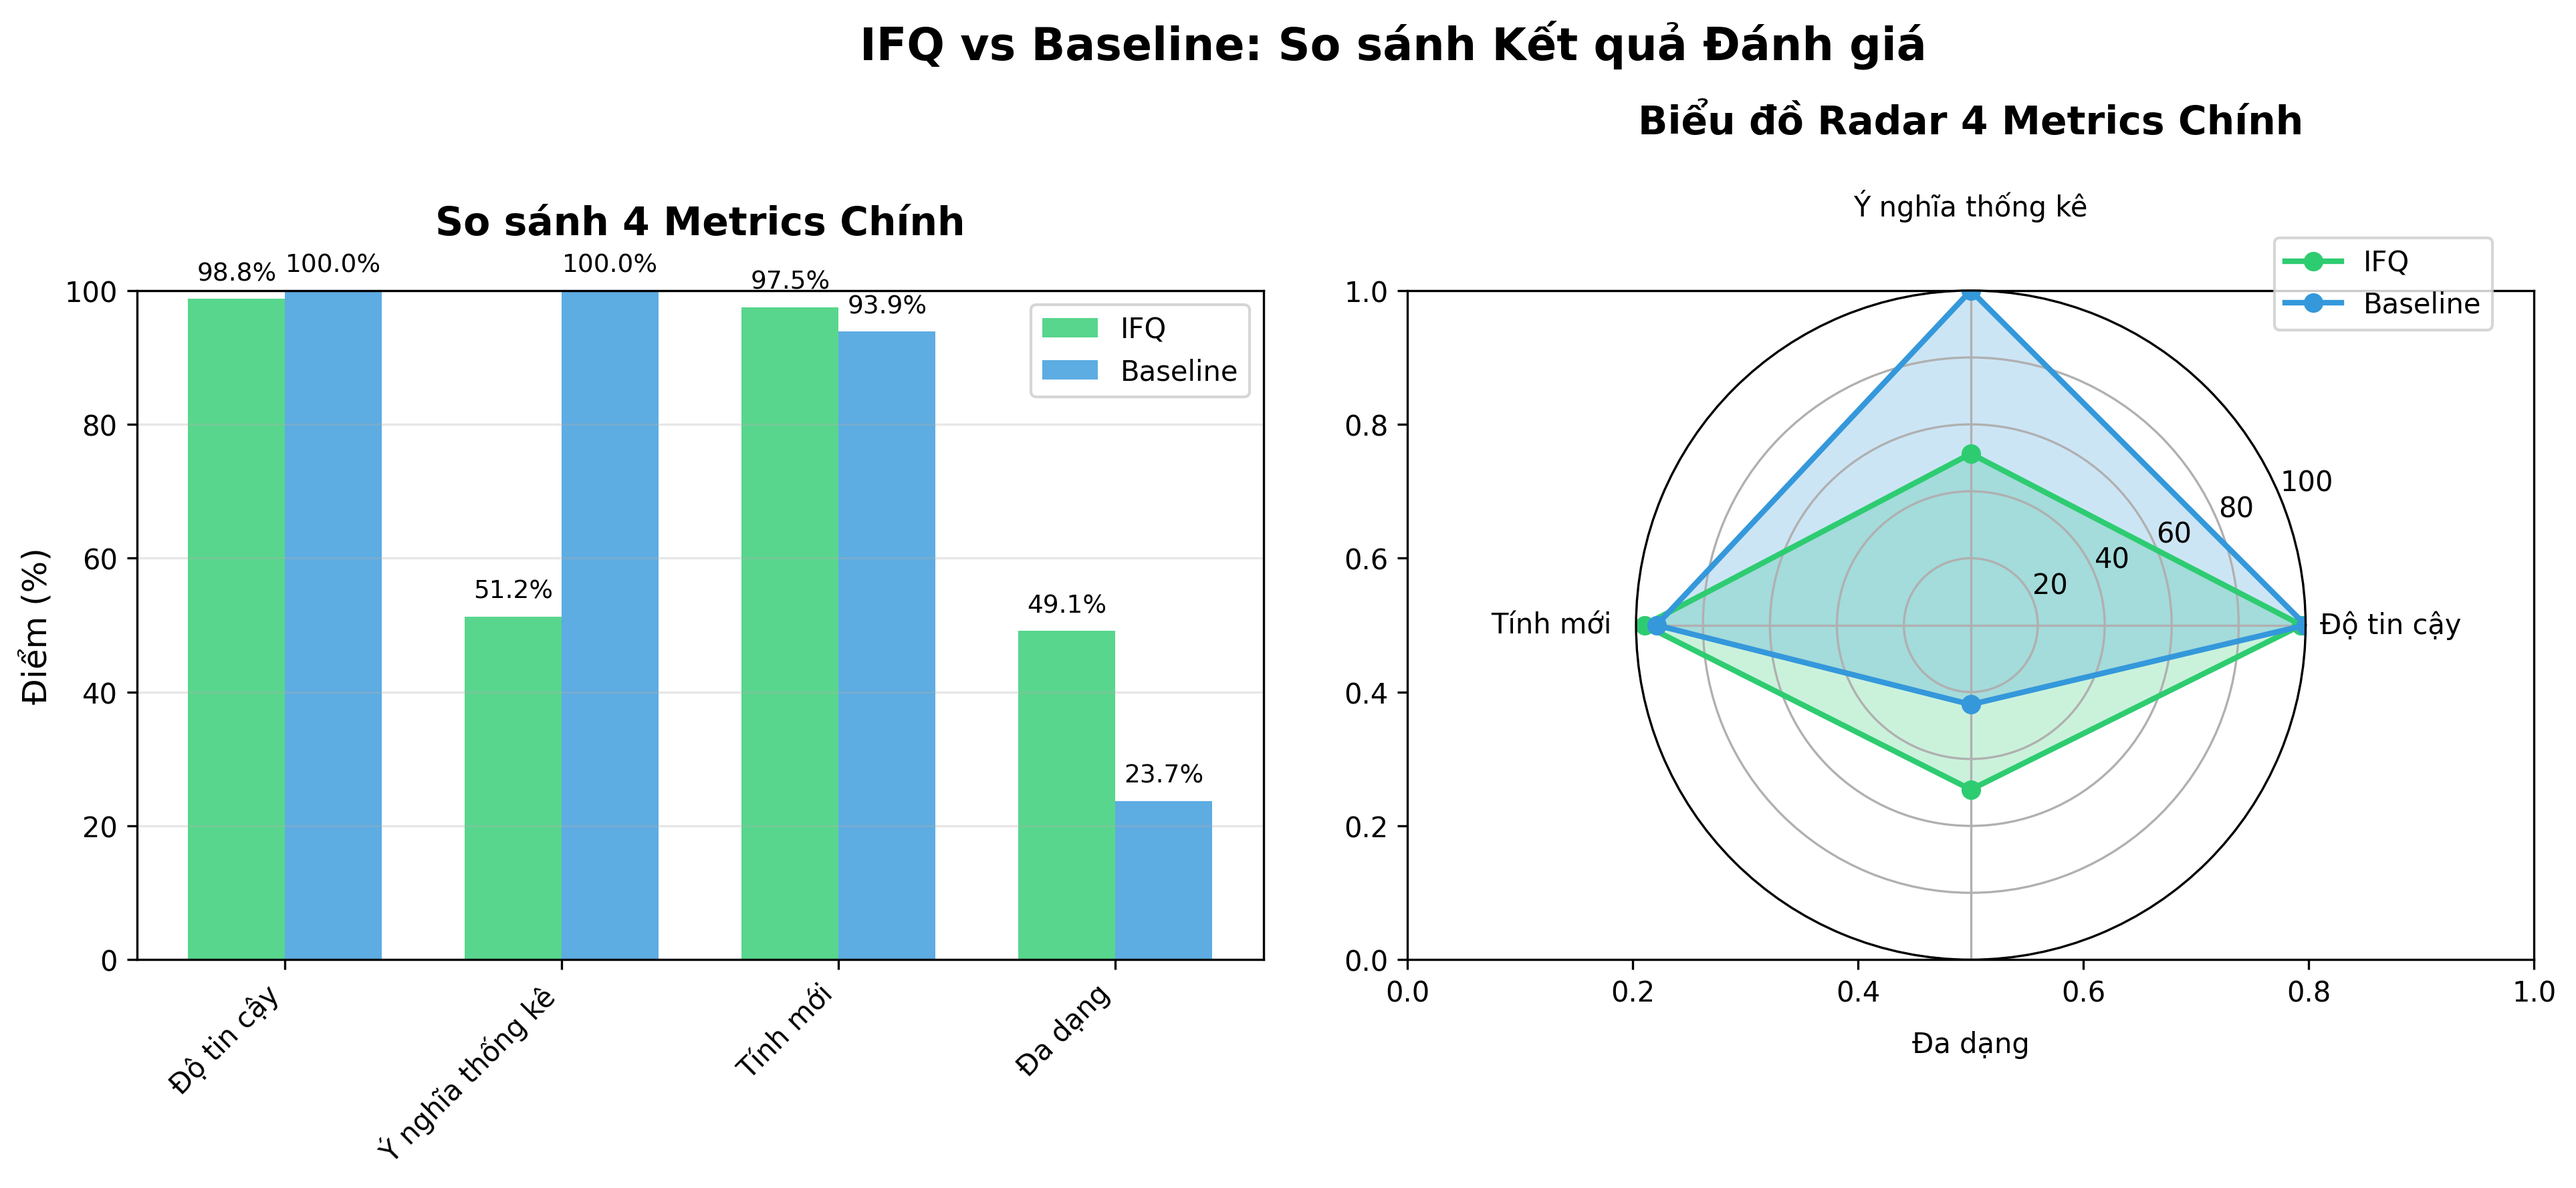
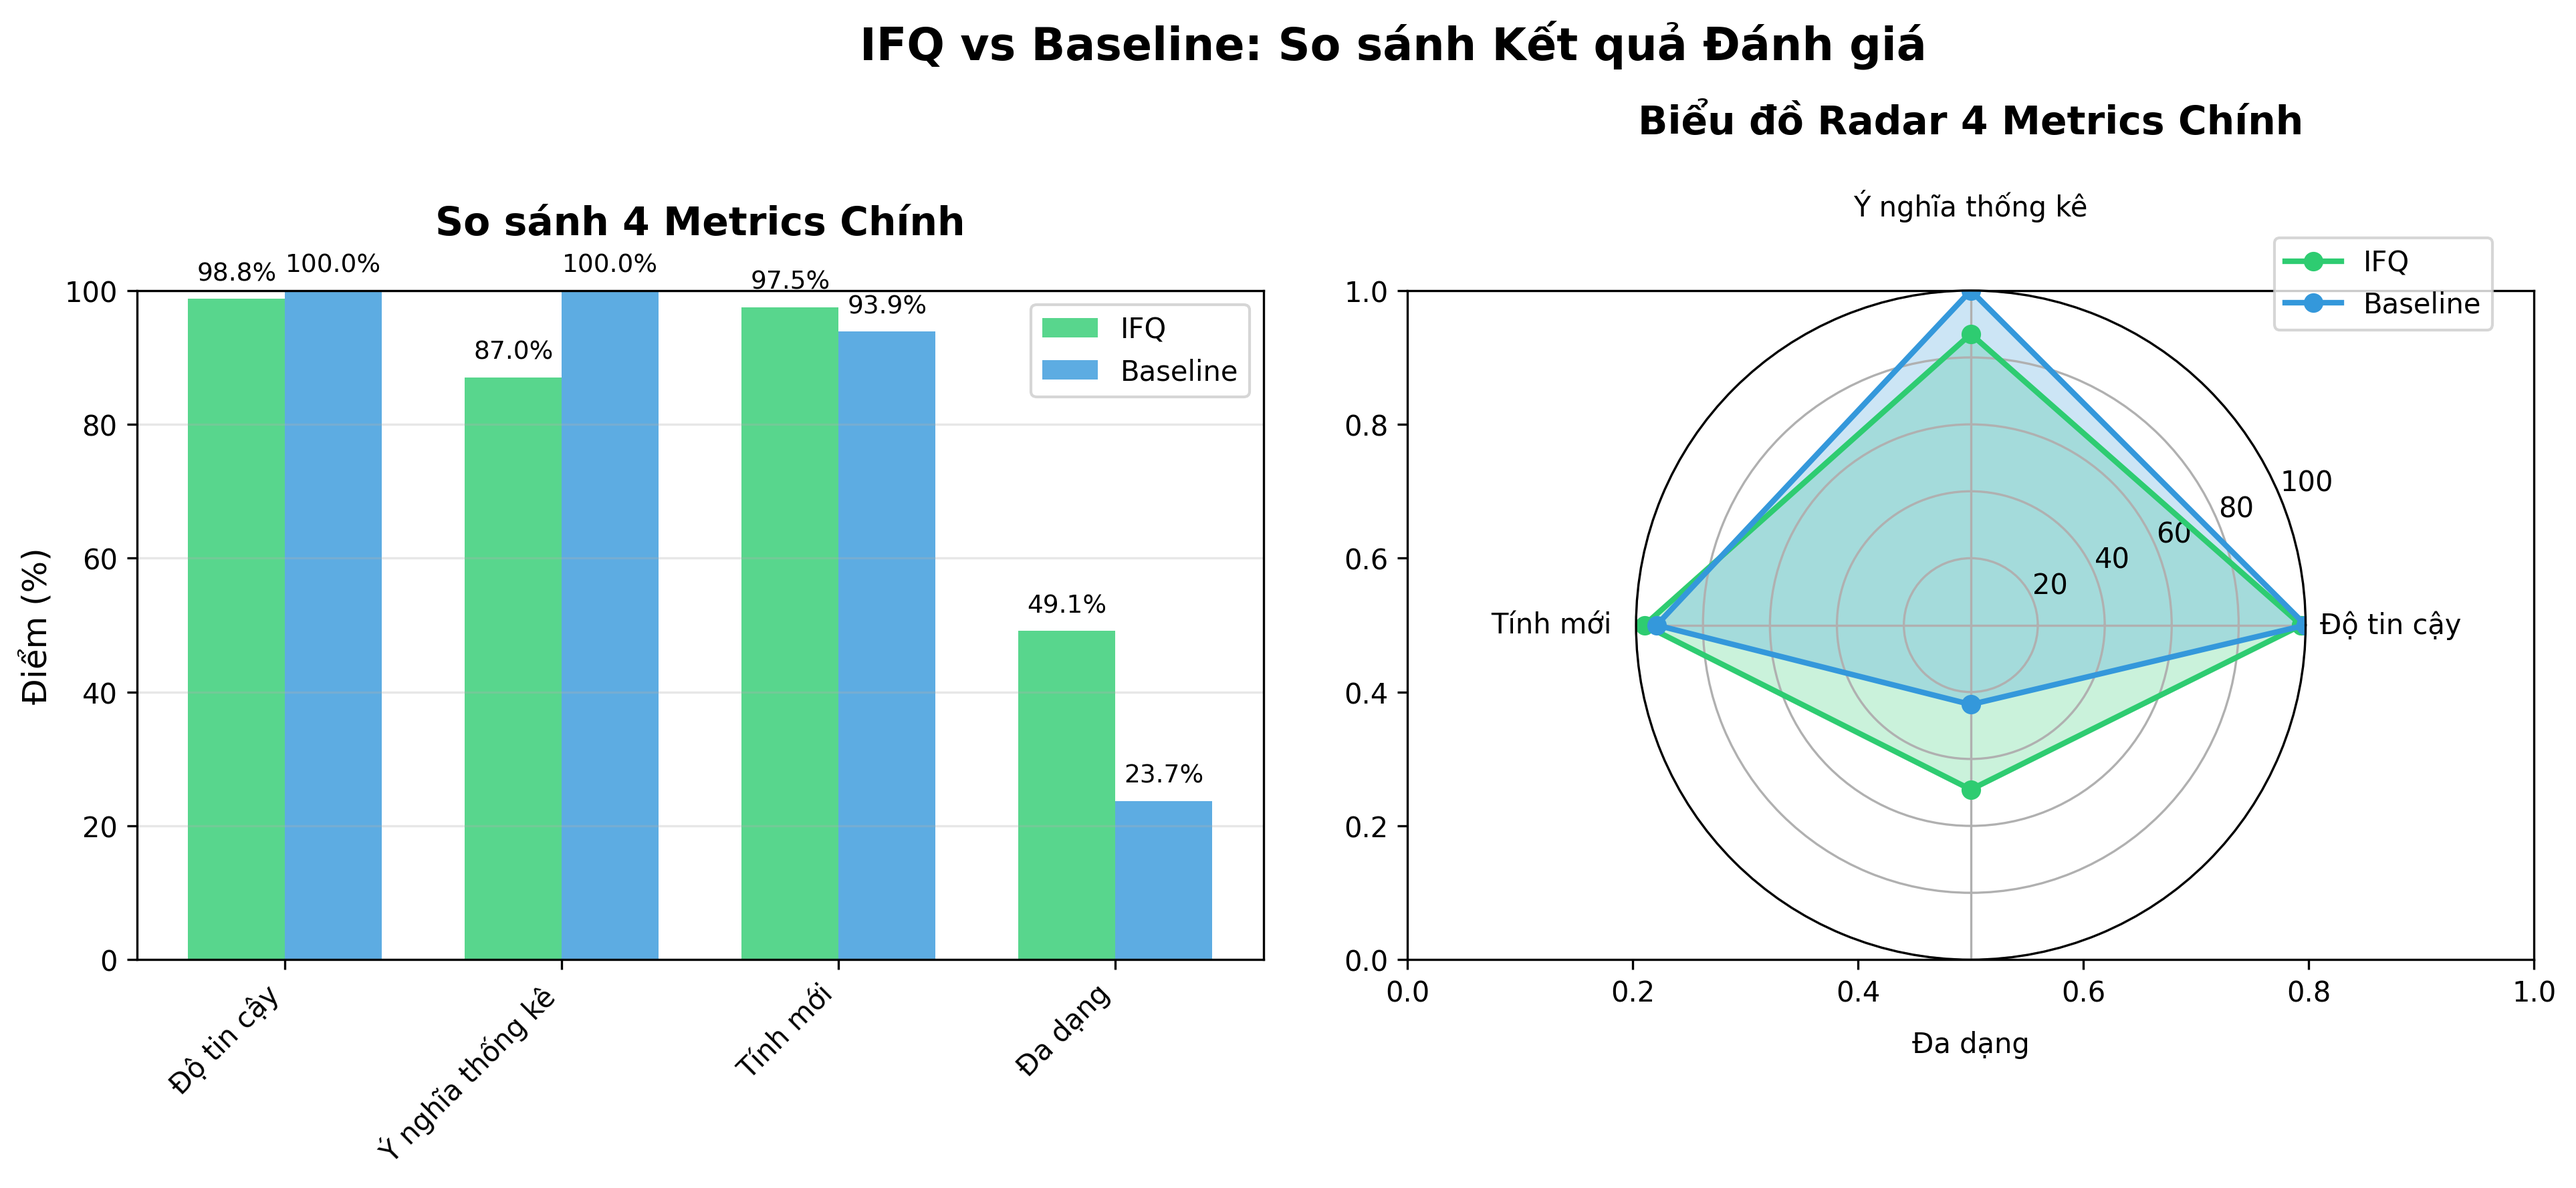
feat: update evaluation

diff --git a/evaluation/significance.py b/evaluation/significance.py
@@ -80,6 +80,7 @@ def compute_significance(
             
             # Resolve column names to match cleaned dataframe
             col_resolved = resolve_column(col, list(df_cleaned.columns)) or col
+            
             breakdown_resolved = resolve_column(breakdown, list(df_cleaned.columns)) or breakdown if breakdown else None
             
             # Check if required columns exist
@@ -239,12 +240,24 @@ def compute_p_value(pattern: str, df: pd.DataFrame, breakdown: str, col: str):
         if col not in df.columns:
             return None
         
-        # Check if this is a COUNT measure on categorical data
-        # If breakdown exists and we're doing COUNT, aggregate first
+        # Aggregate by breakdown using the correct aggregation function from measure
         if breakdown and breakdown in df.columns:
-            # Aggregate by breakdown
             try:
-                grouped = df.groupby(breakdown)[col].count()
+                agg_func = agg.lower()  # Get aggregation function from measure string
+                if agg_func == 'count':
+                    # For COUNT, use groupby().size() to count rows
+                    grouped = df.groupby(breakdown).size()
+                elif agg_func == 'min':
+                    grouped = df.groupby(breakdown)[col].min()
+                elif agg_func == 'max':
+                    grouped = df.groupby(breakdown)[col].max()
+                elif agg_func == 'sum':
+                    grouped = df.groupby(breakdown)[col].sum()
+                elif agg_func == 'mean' or agg_func == 'avg':
+                    grouped = df.groupby(breakdown)[col].mean()
+                else:
+                    # Fallback to count for unknown aggregation
+                    grouped = df.groupby(breakdown)[col].count()
                 values = grouped.values
             except:
                 # Fallback to direct column values

diff --git a/baseline/auto_eda_agent/output_converter.py b/baseline/auto_eda_agent/output_converter.py
@@ -344,9 +344,21 @@ class OutputConverter:
         score_data = baseline_insight.get('score', {})
         score = float(score_data.get('overall', score_data.get('pattern_score', 0.0)))
         
-        # Compute view (labels and values)
+        # Extract and convert subspace from baseline format to QUIS Subspace format
+        # Baseline uses [["column", "value"]] (list of lists)
+        # QUIS uses Subspace(filters=((col, val), ...)) (tuple of tuples)
+        baseline_subspace = baseline_insight.get('subspace', [])
+        if baseline_subspace:
+            # Convert from [["col", "val"], ...] to ((col, val), ...)
+            subspace_filters = tuple(tuple(filter_pair) for filter_pair in baseline_subspace)
+            from quis.isgen.models import Subspace
+            quis_subspace = Subspace(filters=subspace_filters)
+        else:
+            quis_subspace = None
+        
+        # Compute view (labels and values) with actual subspace
         try:
-            labels, values = compute_view(self.df, breakdown, measure, [])
+            labels, values = compute_view(self.df, breakdown, measure, quis_subspace)
             # Convert string labels back to original data types to match cleaned data
             labels = self._fix_label_types(labels, breakdown)
             # Remove duplicates to avoid faithfulness errors

diff --git a/evaluation/evaluation_results/comparison_report.md b/evaluation/evaluation_results/comparison_report.md
@@ -2,44 +2,37 @@
 
 ## 4 CORE METRICS + 2 EFFICIENCY METRICS
 
-**Generated**: 2026-04-12 12:51:49
+**Generated**: 2026-04-14 23:51:57
 
 ---
 
 ## Executive Summary
 
-- **IFQ Wins**: 3/6 metrics
-- **Baseline Wins**: 3/6 metrics
+- **IFQ Wins**: 2/4 metrics
+- **Baseline Wins**: 2/4 metrics
 
 ### Key Findings
 
 **IFQ Strengths:**
 - **Faithfulness**: 98.8% vs 100.0%
-- **Statistical Significance**: 51.2% vs 100.0%
+- **Statistical Significance**: 87.0% vs 100.0%
 - **Insight Novelty**: 97.5% vs 93.9%
 - **Insight Diversity**: 0.491 vs 0.237
-- **Time to Insight**: 7.87s vs 5.51s per insight
-- **Token Usage**: 985 vs 1050 tokens per insight
 
 ---
 
 ## Detailed Metrics Comparison
 
-| Metric                      | IFQ   | Baseline   | Winner   |
-|:----------------------------|:------|:-----------|:---------|
-| 1. Faithfulness             | 98.8% | 100.0%     | Baseline |
-| 2. Statistical Significance | 51.2% | 100.0%     | Baseline |
-| 3. Insight Novelty          | 97.5% | 93.9%      | IFQ      |
-| 4. Insight Diversity        | 0.491 | 0.237      | IFQ      |
-| 5. Time to Insight          | 7.87s | 5.51s      | Baseline |
-| 6. Token Usage              | 985   | 1050       | IFQ      |
-| 7. Total Insights           | 80    | 114        | Baseline |
-| 8. Total Tokens             | 78,804 | 119,655   | IFQ      |
-| 9. Total Time (s)           | 629.73 | 628.23    | Baseline |
+| Metric                      | IFQ   | Baseline   | Winner   | Category   | Description                      |
+|:----------------------------|:------|:-----------|:---------|:-----------|:---------------------------------|
+| 1. Faithfulness             | 98.8% | 100.0%     | Baseline | Core       | Correctness - đúng dữ liệu       |
+| 2. Statistical Significance | 87.0% | 100.0%     | Baseline | Core       | Validity - không phải noise      |
+| 3. Insight Novelty          | 97.5% | 93.9%      | IFQ      | Core       | Usefulness - khác baseline       |
+| 4. Insight Diversity        | 0.491 | 0.237      | IFQ      | Core       | Non-redundancy - không trùng lặp |
 
 ---
 
 ## Conclusion
 
-**Overall Winner**: Tie (3 vs 3 metrics)
+**Overall Winner**: Tie (2 vs 2 metrics)
 
